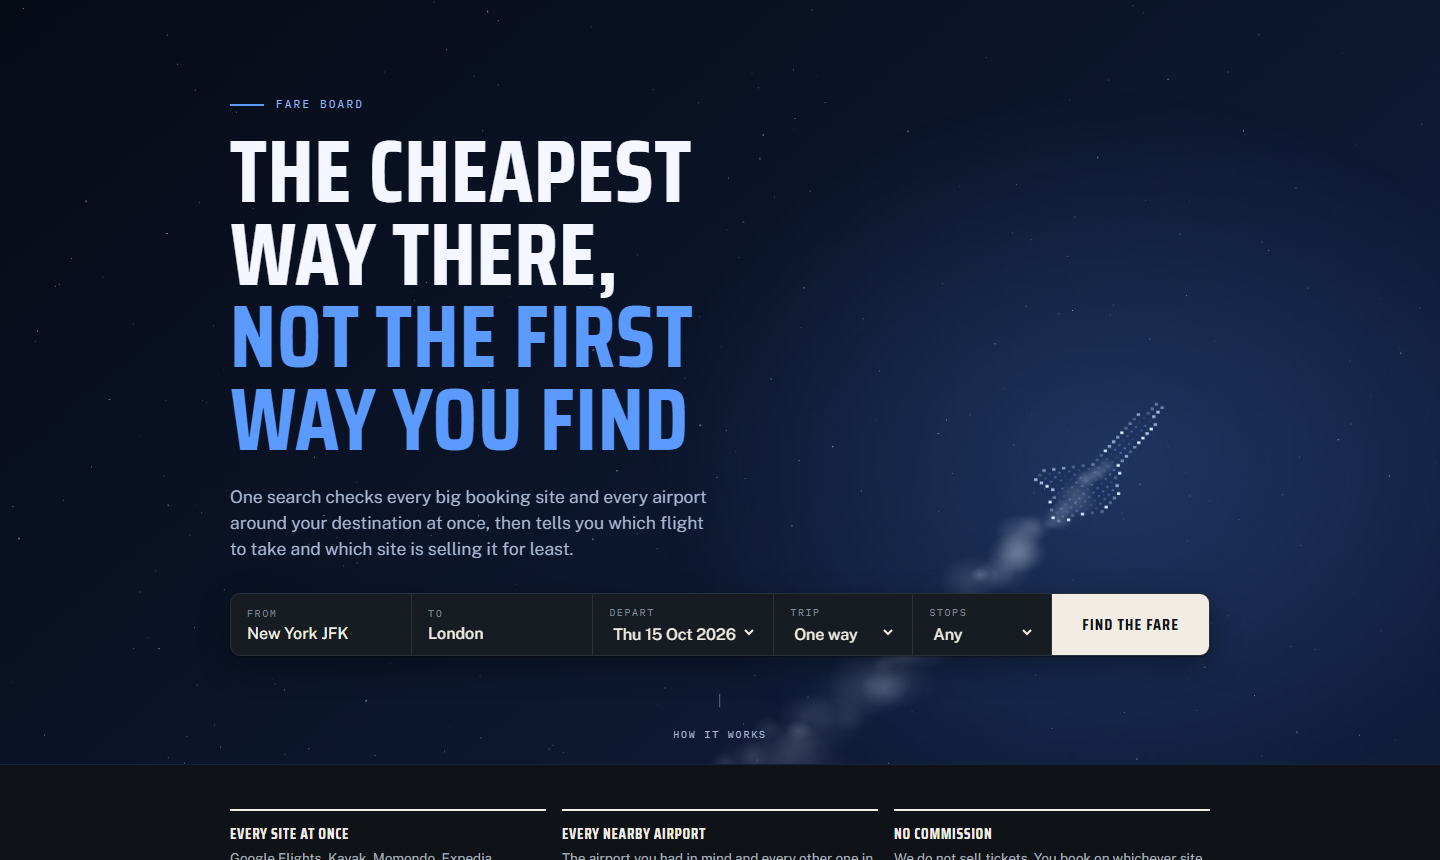
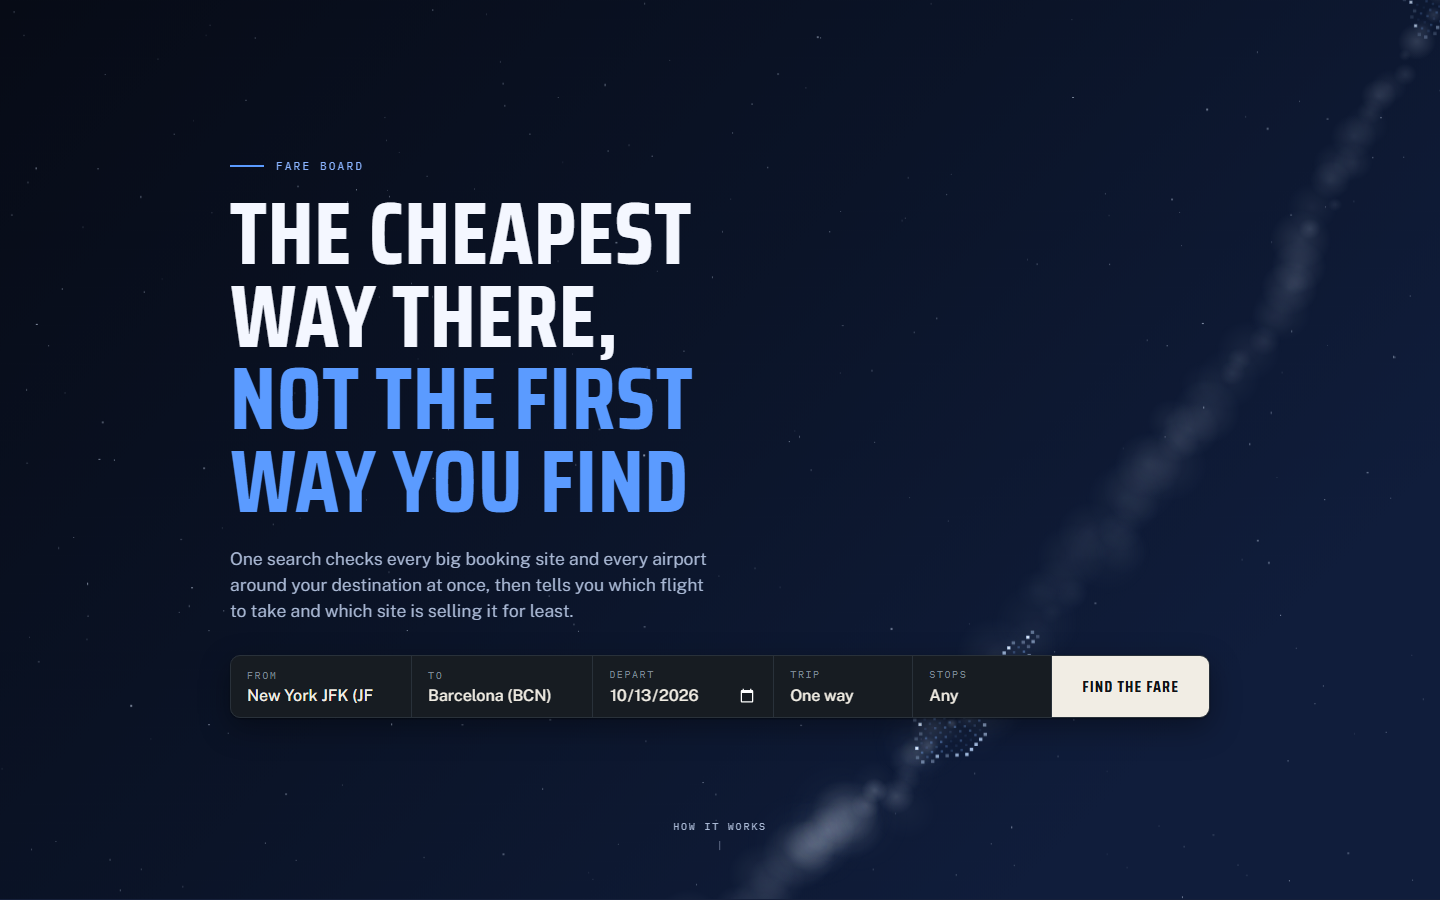
Drop the glow: aircraft and smoke, nothing else
The halo was the largest alpha blend in the frame and the subject was
never the light, it was the aircraft. Gone, along with the sprite that
built it and the logic that decided which of the two climbs got to draw
one.

Removing it appeared to make things worse in two ways, and neither was
real:

- Frame cost went from 17.9ms to 25ms at 1920x1080 dpr2. That was the
  full-height hero landing in the same change -- the canvas grew from
  780px tall to 1080, and the cost is per pixel. The backing store now
  scales with area: past about 1.7 megapixels it drops to 1:1, which puts
  it back to 16.9ms.
- The pause detector reported 2.8s of stillness. It was calibrated against
  a scene with a huge sweeping gradient in it; without that, the honest
  per-frame change is smaller and everything read as frozen. Measured at a
  threshold suited to the scene: zero frozen samples in 89.

Also widens the place fields, which were clipping "New York JFK (JF", and
names cities rather than airports in the suggestion list, so the demo now
reads TAMPA to BARCELONA.

Demo re-recorded to match: Tampa to Barcelona, never priced, 12s, $376.

Claude-Session: https://claude.ai/code/session_01EMLBVdECybqViAWRes9Fjs

diff --git a/flight-price-map/trip.html b/flight-price-map/trip.html
@@ -304,7 +304,8 @@ form.finder {
 }
 .cell { background:var(--panel); padding:11px 16px; flex:1 1 170px;
         display:flex; flex-direction:column; justify-content:center; }
-.cell.narrow { flex:0 1 138px; }
+.cell.narrow { flex:0 1 132px; }
+.cell.wide { flex:1.3 1 190px; }
 .cell label { font-family:"IBM Plex Mono", monospace; font-size:10px;
               letter-spacing:.16em; text-transform:uppercase;
               color:var(--ink-3); }
@@ -505,12 +506,12 @@ select option { background:var(--panel); color:var(--ink); }
       </div>
 
       <form class="finder" id="finder" autocomplete="off">
-        <div class="cell">
+        <div class="cell wide">
           <label for="from">From</label>
           <input id="from" name="from" list="places" placeholder="City or airport"
             value="New York JFK" required>
         </div>
-        <div class="cell">
+        <div class="cell wide">
           <label for="to">To</label>
           <input id="to" name="to" list="places" placeholder="City or airport"
             value="London" required>
@@ -700,17 +701,17 @@ select option { background:var(--panel); color:var(--ink); }
 
   const NIGHT = {
     sky: ["#070b16", "#0b1428", "#101d3b"], stars: "#dbe9ff",
-    halo: "91,155,255", core: "#f2f8ff", edge: "#bcd8ff", body: "#6f9fe8",
+    core: "#f2f8ff", edge: "#bcd8ff", body: "#6f9fe8",
     smoke: "224,236,255", smokeMax: 0.34,
   };
   const DAY = {
     sky: ["#d7e7f8", "#e9f2fb", "#f6fafd"], stars: null,
-    halo: "120,170,235", core: "#08152c", edge: "#17376b", body: "#5d84ba",
+    core: "#08152c", edge: "#17376b", body: "#5d84ba",
     smoke: "255,255,255", smokeMax: 0.95,
   };
 
   let W = 0, H = 0, dpr = 1, pal = DAY, puffs = [], t = 0, raf = null;
-  let backdrop = null, puffSprite = null, haloSprite = null;
+  let backdrop = null, puffSprite = null;
   const still = matchMedia("(prefers-reduced-motion: reduce)");
   const darkOS = matchMedia("(prefers-color-scheme: dark)");
   const isDark = () => {
@@ -771,24 +772,19 @@ select option { background:var(--panel); color:var(--ink); }
     s.fillStyle = g;
     s.fillRect(0, 0, 64, 64);
 
-    // The halo is smooth, so a small sprite scaled up is indistinguishable
-    // from a full-size gradient and costs a fraction of it.
-    haloSprite = layer(256, 256);
-    const h = haloSprite.getContext("2d");
-    const hg = h.createRadialGradient(128, 128, 0, 128, 128, 128);
-    hg.addColorStop(0, "rgba(" + pal.halo + ",.22)");
-    hg.addColorStop(1, "rgba(" + pal.halo + ",0)");
-    h.fillStyle = hg;
-    h.fillRect(0, 0, 256, 256);
   }
 
   function size() {
-    dpr = Math.min(devicePixelRatio || 1, 1.5);
+    // Scenery, so pixels are worth trading for smoothness. A full-height hero
+    // on a large display is several times the area of a banner, and the cost
+    // is per pixel: past a couple of megapixels, drop to 1:1.
+    const area = canvas.clientWidth * canvas.clientHeight;
+    dpr = Math.min(devicePixelRatio || 1, area > 1.7e6 ? 1 : 1.5);
     W = canvas.clientWidth; H = canvas.clientHeight;
     canvas.width = W * dpr; canvas.height = H * dpr;
     ctx.setTransform(dpr, 0, 0, dpr, 0, 0);
-    puffs = Array.from({length: 130}, (_, i) => ({
-      u: i / 130,
+    puffs = Array.from({length: 110}, (_, i) => ({
+      u: i / 110,
       off: (Math.random() - 0.5) * 30,
       rise: (Math.random() - 0.5) * 0.8,
       size: 5 + Math.random() * 15,
@@ -808,19 +804,11 @@ select option { background:var(--panel); color:var(--ink); }
   // something is always on the way up, and the wrap has nothing to give away.
   const PHASES = [0, 0.5];
 
-  function flight(u, withHalo) {
+  function flight(u) {
     const seam = fade(u);
     if (seam < 0.02) return;               // wholly invisible, so no work
 
     const nose = path(u);
-    // The halo is the largest alpha blend in the frame, so only the climb
-    // that is actually lighting the sky draws one; a second, fainter glow
-    // costs as much as the first and is not visible next to it.
-    if (withHalo) {
-      const R = Math.max(W, H) * 0.32;
-      ctx.globalAlpha = seam;
-      ctx.drawImage(haloSprite, nose.x - R, nose.y - R, R * 2, R * 2);
-    }
 
     // Walk back from the newest puff and stop at the first invisible one.
     // They only fade with age, so everything beyond it is invisible too --
@@ -865,9 +853,7 @@ select option { background:var(--panel); color:var(--ink); }
   function scene(u) {
     ctx.globalAlpha = 1;
     ctx.drawImage(backdrop, 0, 0, W, H);
-    const at = PHASES.map(phase => (u + phase) % 1);
-    const lead = at.reduce((best, v) => fade(v) > fade(best) ? v : best, at[0]);
-    for (const v of at) flight(v, v === lead);
+    for (const phase of PHASES) flight((u + phase) % 1);
     ctx.globalAlpha = 1;
   }
 

diff --git a/flight-price-map/sky.py b/flight-price-map/sky.py
@@ -138,17 +138,17 @@ JS = """
 
   const NIGHT = {
     sky: ["#070b16", "#0b1428", "#101d3b"], stars: "#dbe9ff",
-    halo: "91,155,255", core: "#f2f8ff", edge: "#bcd8ff", body: "#6f9fe8",
+    core: "#f2f8ff", edge: "#bcd8ff", body: "#6f9fe8",
     smoke: "224,236,255", smokeMax: 0.34,
   };
   const DAY = {
     sky: ["#d7e7f8", "#e9f2fb", "#f6fafd"], stars: null,
-    halo: "120,170,235", core: "#08152c", edge: "#17376b", body: "#5d84ba",
+    core: "#08152c", edge: "#17376b", body: "#5d84ba",
     smoke: "255,255,255", smokeMax: 0.95,
   };
 
   let W = 0, H = 0, dpr = 1, pal = DAY, puffs = [], t = 0, raf = null;
-  let backdrop = null, puffSprite = null, haloSprite = null;
+  let backdrop = null, puffSprite = null;
   const still = matchMedia("(prefers-reduced-motion: reduce)");
   const darkOS = matchMedia("(prefers-color-scheme: dark)");
   const isDark = () => {
@@ -209,24 +209,19 @@ JS = """
     s.fillStyle = g;
     s.fillRect(0, 0, 64, 64);
 
-    // The halo is smooth, so a small sprite scaled up is indistinguishable
-    // from a full-size gradient and costs a fraction of it.
-    haloSprite = layer(256, 256);
-    const h = haloSprite.getContext("2d");
-    const hg = h.createRadialGradient(128, 128, 0, 128, 128, 128);
-    hg.addColorStop(0, "rgba(" + pal.halo + ",.22)");
-    hg.addColorStop(1, "rgba(" + pal.halo + ",0)");
-    h.fillStyle = hg;
-    h.fillRect(0, 0, 256, 256);
   }
 
   function size() {
-    dpr = Math.min(devicePixelRatio || 1, 1.5);
+    // Scenery, so pixels are worth trading for smoothness. A full-height hero
+    // on a large display is several times the area of a banner, and the cost
+    // is per pixel: past a couple of megapixels, drop to 1:1.
+    const area = canvas.clientWidth * canvas.clientHeight;
+    dpr = Math.min(devicePixelRatio || 1, area > 1.7e6 ? 1 : 1.5);
     W = canvas.clientWidth; H = canvas.clientHeight;
     canvas.width = W * dpr; canvas.height = H * dpr;
     ctx.setTransform(dpr, 0, 0, dpr, 0, 0);
-    puffs = Array.from({length: 130}, (_, i) => ({
-      u: i / 130,
+    puffs = Array.from({length: 110}, (_, i) => ({
+      u: i / 110,
       off: (Math.random() - 0.5) * 30,
       rise: (Math.random() - 0.5) * 0.8,
       size: 5 + Math.random() * 15,
@@ -246,19 +241,11 @@ JS = """
   // something is always on the way up, and the wrap has nothing to give away.
   const PHASES = [0, 0.5];
 
-  function flight(u, withHalo) {
+  function flight(u) {
     const seam = fade(u);
     if (seam < 0.02) return;               // wholly invisible, so no work
 
     const nose = path(u);
-    // The halo is the largest alpha blend in the frame, so only the climb
-    // that is actually lighting the sky draws one; a second, fainter glow
-    // costs as much as the first and is not visible next to it.
-    if (withHalo) {
-      const R = Math.max(W, H) * 0.32;
-      ctx.globalAlpha = seam;
-      ctx.drawImage(haloSprite, nose.x - R, nose.y - R, R * 2, R * 2);
-    }
 
     // Walk back from the newest puff and stop at the first invisible one.
     // They only fade with age, so everything beyond it is invisible too --
@@ -303,9 +290,7 @@ JS = """
   function scene(u) {
     ctx.globalAlpha = 1;
     ctx.drawImage(backdrop, 0, 0, W, H);
-    const at = PHASES.map(phase => (u + phase) % 1);
-    const lead = at.reduce((best, v) => fade(v) > fade(best) ? v : best, at[0]);
-    for (const v of at) flight(v, v === lead);
+    for (const phase of PHASES) flight((u + phase) % 1);
     ctx.globalAlpha = 1;
   }
 

diff --git a/flight-price-map/trip.py b/flight-price-map/trip.py
@@ -58,7 +58,8 @@ form.finder {
 }
 .cell { background:var(--panel); padding:11px 16px; flex:1 1 170px;
         display:flex; flex-direction:column; justify-content:center; }
-.cell.narrow { flex:0 1 138px; }
+.cell.narrow { flex:0 1 132px; }
+.cell.wide { flex:1.3 1 190px; }
 .cell label { font-family:"IBM Plex Mono", monospace; font-size:10px;
               letter-spacing:.16em; text-transform:uppercase;
               color:var(--ink-3); }
@@ -262,12 +263,12 @@ TEMPLATE = """__HEAD__
       </div>
 
       <form class="finder" id="finder" autocomplete="off">
-        <div class="cell">
+        <div class="cell wide">
           <label for="from">From</label>
           <input id="from" name="from" list="places" placeholder="City or airport"
             value="__DEF_FROM__" required>
         </div>
-        <div class="cell">
+        <div class="cell wide">
           <label for="to">To</label>
           <input id="to" name="to" list="places" placeholder="City or airport"
             value="__DEF_TO__" required>
@@ -1035,7 +1036,7 @@ def main() -> None:
             .replace("__AGE__", theme.AGE)
             .replace("__WHEN_CELLS__", WHEN_LIVE if args.live else WHEN_STORED)
             .replace("__DEF_FROM__",
-                     "New York JFK (JFK)" if args.live else lead["from_full"])
+                     "New York (JFK)" if args.live else lead["from_full"])
             .replace("__DEF_TO__",
                      "Barcelona (BCN)" if args.live else lead["to_label"])
             .replace("__PROOF_PRICE__", money_str(best["price"]))

diff --git a/flight-price-map/trips.py b/flight-price-map/trips.py
@@ -12,11 +12,12 @@ import airports
 import itineraries
 
 CITY = {"LHR": "Heathrow", "LGW": "Gatwick", "STN": "Stansted",
-        "LTN": "Luton", "LCY": "London City", "JFK": "New York JFK",
+        "LTN": "Luton", "LCY": "London City", "JFK": "New York",
         "EWR": "Newark", "LGA": "LaGuardia", "TPA": "Tampa",
         "BCN": "Barcelona", "MAD": "Madrid", "CDG": "Paris CDG",
         "ORY": "Paris Orly", "FCO": "Rome Fiumicino", "AMS": "Amsterdam",
-        "NRT": "Tokyo Narita", "HND": "Tokyo Haneda"}
+        "NRT": "Tokyo Narita", "HND": "Tokyo Haneda", "LIS": "Lisbon",
+        "CPH": "Copenhagen", "DUB": "Dublin", "ATH": "Athens"}
 
 METRO_CITY = {"LON": "London", "NYC": "New York", "PAR": "Paris",
               "TYO": "Tokyo", "MIL": "Milan", "ROM": "Rome", "CHI": "Chicago",

diff --git a/README.md b/README.md
@@ -10,10 +10,9 @@ Built on [Solari](https://getsolari.com) cloud browsers, on a fork of their
 
 ![Searching a route it has never seen](flight-price-map/demo/demo.gif)
 
-Portland to Copenhagen, a route it had never priced: **44 seconds, 14 flights,
-$356** — and the same seat on Kayak and Momondo at the same price. Nothing in
-that recording is staged; it clears the route from the cache first so what you
-are watching is a real search.
+Tampa to Barcelona, a route it had never priced: **12 seconds, four sites,
+$376**. Nothing in that recording is staged — it clears the route from the
+cache first, so what you are watching is a real search happening.
 
 ## What it found
 

diff --git a/flight-price-map/README.md b/flight-price-map/README.md
@@ -162,7 +162,7 @@ what ends up in the file.
 
 ```bash
 python server.py                     # in one terminal
-python demo.py --from PDX --to CPH --date 2026-12-15
+python demo.py --from TPA --to BCN --date 2026-12-08
 ```
 
 It writes two files. `demo.webm` is the session exactly as it happened. The gif
